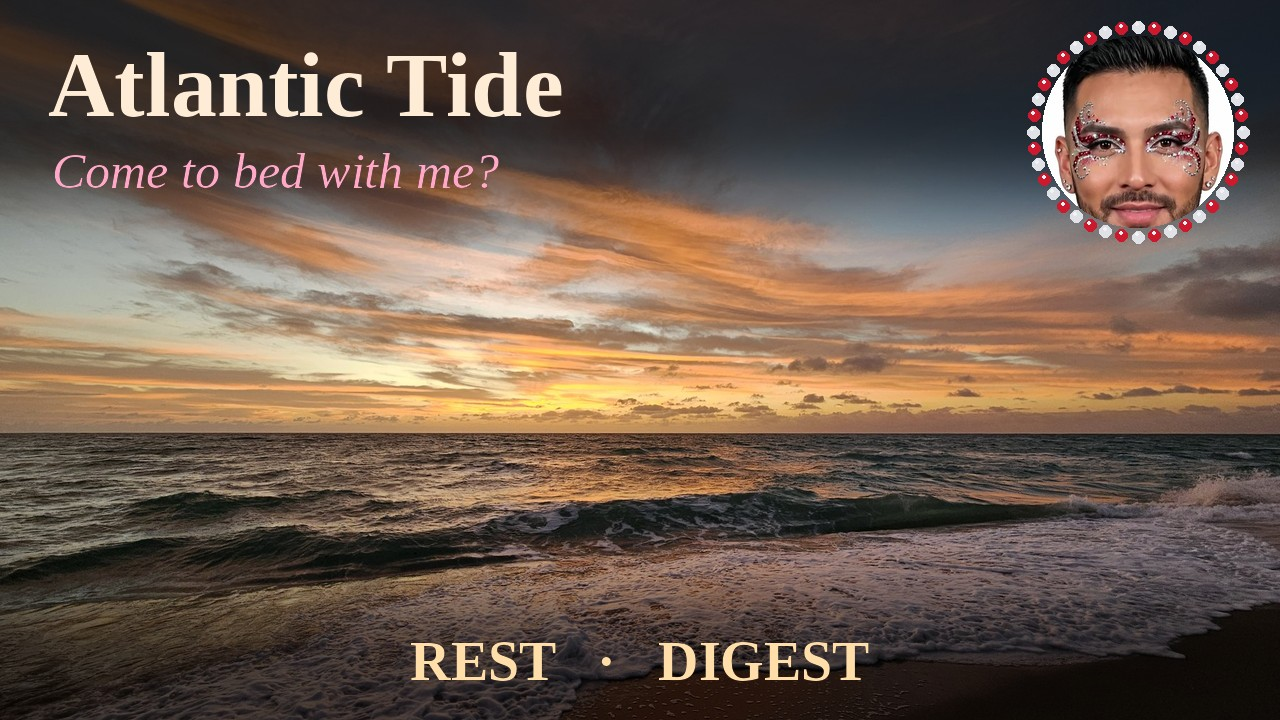
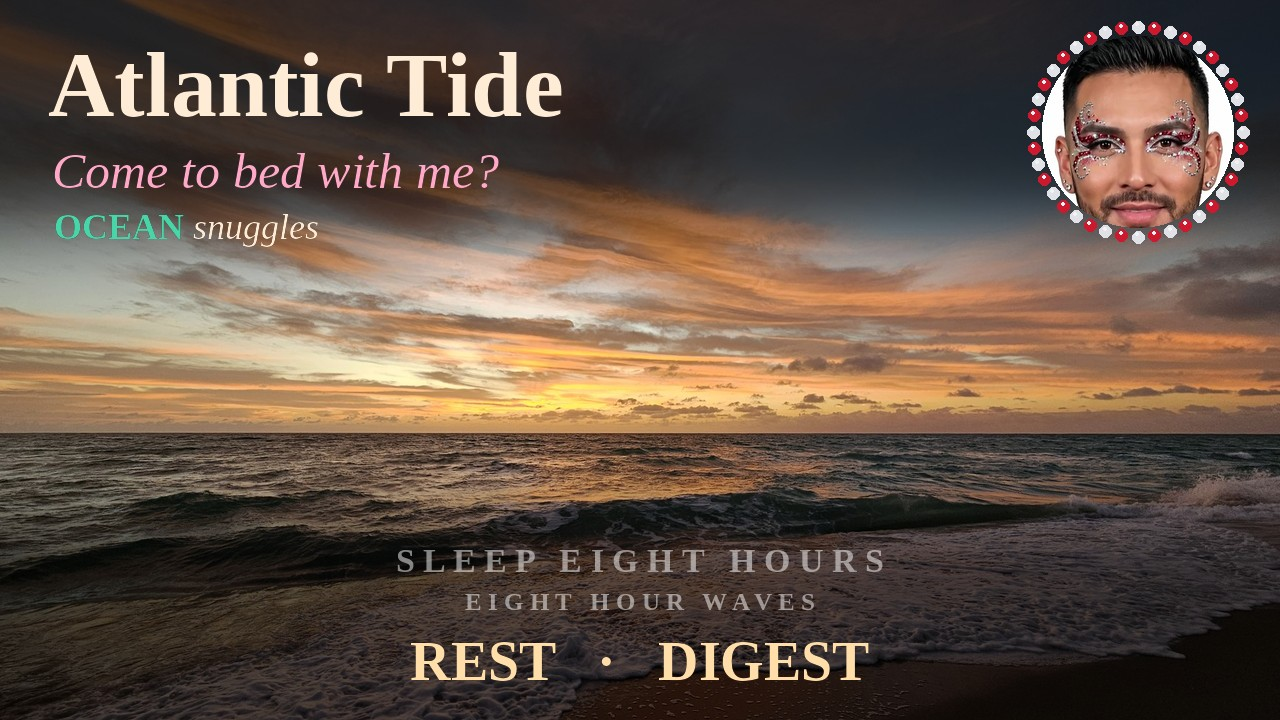
Mateo: Atlantic Tide + Sunset Cliffs posted (records, cover lines, Pacific swell) (#230)
* Mateo: post South Beach Rain (Matthew: vamos)

Claude-Session: https://claude.ai/code/session_018WVMwHw3unxn1QqfaE8vZz

* Mateo: record posted video [skip ci]

* Mateo: Atlantic Tide (8 h ocean waves), Matthew's beach photos day to dusk, black by 20:00; staged, go false

Claude-Session: https://claude.ai/code/session_018WVMwHw3unxn1QqfaE8vZz

* Atlantic Tide: third line OCEAN snuggles (sea green), per Matthew

Claude-Session: https://claude.ai/code/session_018WVMwHw3unxn1QqfaE8vZz

* Atlantic Tide: translucent SLEEP EIGHT HOURS / EIGHT HOUR WAVES above REST · DIGEST, per Matthew

Claude-Session: https://claude.ai/code/session_018WVMwHw3unxn1QqfaE8vZz

* Mateo: post Atlantic Tide (Matthew: boom va a mateo)

Claude-Session: https://claude.ai/code/session_018WVMwHw3unxn1QqfaE8vZz

* Mateo: Sunset Cliffs (8 h Pacific swell), Matthew's San Diego photos sunset to dusk, black by 20:00; staged, go false

Claude-Session: https://claude.ai/code/session_018WVMwHw3unxn1QqfaE8vZz

* Sunset Cliffs: PACIFIC swells with Mateo, per Matthew

Claude-Session: https://claude.ai/code/session_018WVMwHw3unxn1QqfaE8vZz

* Mateo: post Sunset Cliffs (Matthew: Love it. Boom)

Claude-Session: https://claude.ai/code/session_018WVMwHw3unxn1QqfaE8vZz

* Mateo: record Atlantic Tide (ilT93o4YMt0); bot's record push was rejected

Claude-Session: https://claude.ai/code/session_018WVMwHw3unxn1QqfaE8vZz

* Mateo: record posted video [skip ci]

---------

Changed region(s): [[0.0, 0.6722, 1.0, 0.8861], [0.0, 0.2139, 1.0, 0.3667]]

diff --git a/mateo/sunset-cliffs/build.py b/mateo/sunset-cliffs/build.py
@@ -1,0 +1,95 @@
+"""Sunset Cliffs: python mateo/sunset-cliffs/build.py [HOURS] [OUT]
+
+Picture: Matthew's Sunset Cliffs (San Diego) photos, in the order he took them, sunset -> dusk, each slowly zooming
+with crossfades, the cover (title, Mateo upper right, REST · DIGEST) fading out at 9-15 s, while the
+whole picture dims to pure black by 20:00. After that the screen stays black, the kindest dark for eyes.
+Sound: pacific_audio.py (synthesized Pacific groundswell, reef boom, cobble wash), the whole length, no loops.
+Run by .github/workflows/mateo.yml before upload. Needs numpy, scipy, pillow, ffmpeg.
+"""
+import subprocess, sys, tempfile
+from pathlib import Path
+import numpy as np
+from PIL import Image
+
+HERE = Path(__file__).resolve().parent
+HOURS = float(sys.argv[1]) if len(sys.argv) > 1 else 8
+OUT = Path(sys.argv[2]) if len(sys.argv) > 2 else HERE / "video.mp4"
+W, H, FPS = 1280, 720, 24
+INTRO = int(sys.argv[3]) if len(sys.argv) > 3 else 1200  # seconds until fully black
+PHOTOS = ["sun-palms", "blue-palms", "surf-line", "stay-back", "cliff-path", "sun-on-water", "stairs-wave",
+          "cliff-cobbles", "surfers", "cliff-sea", "rock-cove", "foam", "long-cliffs", "open-water", "park-sign",
+          "dusk-palms"]
+XF = 6.0
+SLIDE = INTRO / len(PHOTOS) + XF  # the last photo ends as the screen reaches black
+ENC = ["-c:v", "libx264", "-preset", "slow", "-crf", "30", "-g", "240", "-pix_fmt", "yuv420p", "-r", str(FPS)]
+FF = ["ffmpeg", "-v", "error", "-y"]
+
+
+def smooth(x):
+    x = min(max(x, 0.0), 1.0)
+    return x * x * (3 - 2 * x)
+
+
+def prep(name):
+    im = Image.open(HERE / "assets" / f"{name}.jpg").convert("RGB")
+    s = max(W / im.width, H / im.height) * 1.12
+    return im.resize((int(im.width * s) + 1, int(im.height * s) + 1), Image.LANCZOS)
+
+
+def slide_frame(big, u, k):
+    """Photo at progress u (0..1): slow zoom out 1.12 -> 1.0 with a gentle drift; returns float RGB."""
+    z = 1.12 - 0.12 * u
+    a = big.width / (W * 1.12) * (1.12 / z)
+    sw, sh = W * a, H * a
+    x0 = (0.5 + 0.35 * np.sin(np.pi * u + k)) * (big.width - sw)
+    y0 = (big.height - sh) * 0.5
+    img = big.transform((W, H), Image.AFFINE, (a, 0, x0, 0, a, y0), resample=Image.BICUBIC)
+    return np.asarray(img).astype(np.float32) / 255
+
+
+def frames(overlay):
+    ps = [prep(n) for n in PHOTOS]
+    oa = overlay[..., 3:4].astype(np.float32) / 255
+    oc = overlay[..., :3].astype(np.float32) / 255
+    step = SLIDE - XF
+    for i in range(INTRO * FPS):
+        t = i / FPS
+        j = min(int(t // step), len(ps) - 1); u0 = t - j * step
+        f = slide_frame(ps[j], min(u0 / SLIDE, 1.0), j)
+        if u0 < XF and j > 0:
+            g = slide_frame(ps[j - 1], (u0 + step) / SLIDE, j - 1)
+            f = g * (1 - smooth(u0 / XF)) + f * smooth(u0 / XF)
+        a = 1 - smooth((t - 9) / 6)  # title, Mateo and REST · DIGEST fade together, 9-15 s
+        if a > 0:
+            f = f * (1 - oa * a) + oc * oa * a
+        dim = 1 - smooth((t - 45) / (INTRO - 45))
+        f = f * dim ** 1.6
+        yield (np.clip(f, 0, 1) * 255).astype(np.uint8).tobytes()
+
+
+with tempfile.TemporaryDirectory() as tmp:
+    t = Path(tmp)
+    overlay = np.asarray(Image.open(HERE / "overlay.png").convert("RGBA"))
+    enc = subprocess.Popen(FF + ["-f", "rawvideo", "-pix_fmt", "rgb24", "-s", f"{W}x{H}", "-r", str(FPS), "-i", "-"] + ENC + [t / "intro.mp4"],
+                           stdin=subprocess.PIPE)
+    for k, fr in enumerate(frames(overlay)):
+        enc.stdin.write(fr)
+        if k % (FPS * 60) == 0:
+            print(f"picture {k // FPS}s", flush=True)
+    enc.stdin.close()
+    if enc.wait():
+        sys.exit("intro encode failed")
+    subprocess.run(FF + ["-f", "lavfi", "-i", f"color=c=black:s={W}x{H}:r={FPS}:d=60"] + ENC + [t / "black.mp4"], check=True)
+    total = int(HOURS * 3600)
+    n_black = max(0, (total - INTRO) // 60)
+    (t / "list.txt").write_text("file 'intro.mp4'\n" + "file 'black.mp4'\n" * n_black)
+    subprocess.run(FF + ["-f", "concat", "-safe", "0", "-i", t / "list.txt", "-c", "copy", t / "picture.mp4"], check=True)
+    dur = INTRO + n_black * 60
+    audio = subprocess.Popen([sys.executable, HERE / "pacific_audio.py", str(dur), "3"], stdout=subprocess.PIPE)
+    subprocess.run(FF + ["-f", "s16le", "-ar", "48000", "-ac", "2", "-i", "-", "-i", t / "picture.mp4", "-map", "1:v", "-map", "0:a",
+                         "-c:v", "copy", "-c:a", "aac", "-b:a", "96k", "-movflags", "+faststart", "-shortest", OUT],
+                   stdin=audio.stdout, check=True)
+    audio.stdout.close()
+    if audio.wait():
+        sys.exit("pacific_audio.py failed")
+print(f"built {OUT} ({OUT.stat().st_size / 1e6:.0f} MB, {dur / 3600:.2f} h)")

diff --git a/mateo/sunset-cliffs/pacific_audio.py b/mateo/sunset-cliffs/pacific_audio.py
@@ -1,0 +1,97 @@
+"""Pacific swell at Sunset Cliffs, synthesized (no recordings): python pacific_audio.py SECONDS [FADE_IN] > out.s16le
+
+48 kHz stereo s16le. Long-period groundswell: waves about every 15 s (4 a minute, a very slow breath),
+arriving in sets of a few bigger waves then a lull. Each one is a long swell, a deep low boom as it
+breaks on the reef, and a slow wash back over the cobbles with a faint stone rattle. Deep bed under it.
+No gulls, no sea lions, no thunder. Timing and size drift, so it never loops.
+"""
+import sys
+import numpy as np
+from scipy.signal import butter, sosfilt, sosfilt_zi
+
+SR = 48000
+DUR = int(sys.argv[1]) if len(sys.argv) > 1 else 3600
+FADE_IN = float(sys.argv[2]) if len(sys.argv) > 2 else 20.0
+CH = 60
+rng = np.random.default_rng(1017)
+
+
+def bw(kind, f, order=2):
+    return butter(order, f, btype=kind, fs=SR, output="sos")
+
+
+class F:
+    def __init__(self, sos):
+        self.s, self.z = sos, [sosfilt_zi(sos) * 0, sosfilt_zi(sos) * 0]
+
+    def __call__(self, x, i):
+        y, self.z[i] = sosfilt(self.s, x, zi=self.z[i])
+        return y
+
+
+bed_lp, bed_hp = F(bw("low", 320)), F(bw("high", 25))
+breeze = F(bw("band", [180, 1400]))
+master = F(bw("low", 8500))
+# filter banks for wave noise: low roar, mid break, high fizz
+BANDS = [bw("low", 260), bw("band", [260, 1800]), bw("band", [1600, 6500]), bw("low", 95, 4)]
+RATTLE = bw("band", [1200, 4200])
+
+
+def wave(dur, size):
+    """One wave as stereo noise shaped by three envelopes. dur in seconds."""
+    n = int(dur * SR); t = np.arange(n) / SR
+    peak = dur * rng.uniform(0.32, 0.42)
+    swell = np.where(t < peak, (t / peak) ** 2.2, np.exp(-(t - peak) / (dur * 0.22)))
+    brk = np.exp(-((t - peak - 0.25) / 0.9) ** 2) * 0.8 + np.where(t > peak, np.exp(-(t - peak) / 1.6), 0) * 0.6
+    fizz = np.where(t > peak, (1 - np.exp(-(t - peak) / 0.6)) * np.exp(-(t - peak) / (dur * 0.35)), 0)
+    boom = np.where(t > peak - 0.2, np.exp(-np.maximum(t - peak + 0.2, 0) / 1.4), 0) * np.clip((t - peak + 0.6) / 0.4, 0, 1)
+    env = [swell, brk, fizz, boom]
+    gains = [1.0, 0.45, 0.26, 2.2]
+    out = np.zeros((2, n))
+    pan = rng.uniform(-0.3, 0.3)
+    # cobble rattle on the backwash: sparse soft clicks
+    clicks = (rng.random(n) < 90 / SR) * rng.standard_normal(n)
+    clicks = sosfilt(RATTLE, np.convolve(clicks, np.hanning(48), "same")) * fizz * 0.5
+    for i in range(2):
+        acc = np.zeros(n)
+        for b, e, g in zip(BANDS, env, gains):
+            acc += sosfilt(b, rng.standard_normal(n)) * e * g
+        acc += np.roll(clicks, i * 37)
+        out[i] = acc * size * (1 + (pan if i else -pan))
+    # fade edges so overlapping waves join smoothly
+    r = min(n // 10, SR)
+    out[:, :r] *= np.linspace(0, 1, r); out[:, -r:] *= np.linspace(1, 0, r)
+    return out
+
+
+buf = np.zeros((2, SR * 60))   # carries wave tails across chunk edges
+next_wave = 1.5
+set_left, set_size = 4, 1.0
+out = sys.stdout.buffer
+for c0 in range(0, DUR, CH):
+    n = SR * min(CH, DUR - c0)
+    t = (c0 * SR + np.arange(n)) / SR
+    mix = np.zeros((2, n + SR * 60))
+    mix[:, :buf.shape[1]] += buf
+    while next_wave < c0 + CH:
+        if set_left <= 0:                      # lull between sets, then a new set of 3-5
+            next_wave += rng.uniform(8, 18)
+            set_left = int(rng.integers(3, 6)); set_size = float(np.clip(rng.lognormal(0, 0.2), 0.8, 1.3))
+        size = set_size * float(np.clip(rng.lognormal(0, 0.18), 0.75, 1.25)) * 0.55
+        dur = rng.uniform(15, 20)
+        w = wave(dur, size)
+        s = int((next_wave - c0) * SR)
+        mix[:, s:s + w.shape[1]] += w
+        next_wave += rng.normal(15.0, 1.4); set_left -= 1
+    for i in range(2):
+        mix[i, :n] += bed_hp(bed_lp(rng.standard_normal(n), i), i) * 1.5
+        b = breeze(rng.standard_normal(n), i)
+        mix[i, :n] += b * 0.05 * (0.6 + 0.4 * np.sin(2 * np.pi * t / 47 + i))
+    buf = mix[:, n:].copy()
+    y = mix[:, :n]
+    for i in range(2):
+        y[i] = master(y[i], i)
+    y *= np.clip(t / FADE_IN, 0, 1) * np.clip((DUR - t) / 60, 0, 1) * 0.39
+    y = np.tanh(y * 1.1) / 1.1
+    out.write((np.clip(y.T, -1, 1) * 32000).astype("<i2").tobytes())
+    print(f"pacific {c0 + CH}s", file=sys.stderr, flush=True)

diff --git a/mateo/sunset-cliffs/make_cover.py b/mateo/sunset-cliffs/make_cover.py
@@ -1,0 +1,51 @@
+"""One-time: draws overlay.png (video intro, fades out) and thumb.jpg. Committed, so the runner needs no fonts."""
+import math
+from PIL import Image, ImageDraw, ImageFont, ImageFilter, ImageOps
+W, H = 1280, 720
+S = '/usr/share/fonts/truetype/liberation/LiberationSerif-Bold.ttf'
+SI = '/usr/share/fonts/truetype/liberation/LiberationSerif-Italic.ttf'
+SA = '/usr/share/fonts/truetype/dejavu/DejaVuSans.ttf'
+MATEO = Image.open('/mnt/project-files/mid-mateo/test-scene/stills/mateo-still.jpg').convert('RGB')
+
+
+def medallion(d, base, cx, cy, r):
+    face = MATEO.crop((330, 40, 750, 460)).resize((2 * r, 2 * r), Image.LANCZOS)
+    mask = Image.new('L', (2 * r, 2 * r), 0); ImageDraw.Draw(mask).ellipse([0, 0, 2 * r - 1, 2 * r - 1], fill=255)
+    n, R, s = 40, r + 9, max(3, r // 14)
+    for k in range(n):
+        a = 2 * math.pi * k / n; x = cx + R * math.cos(a); y = cy + R * math.sin(a)
+        d.ellipse([x - s, y - s, x + s, y + s], fill=(205, 25, 45, 255) if k % 2 else (225, 225, 232, 255))
+        d.ellipse([x - s * .4, y - s * .7, x + s * .1, y - s * .2], fill=(255, 255, 255, 230))
+    base.paste(face, (cx - r, cy - r), mask)
+
+
+def layer(title_size, sub_size, rd_size, r):
+    ov = Image.new('RGBA', (W, H), (0, 0, 0, 0))
+    sh = Image.new('L', (W, H), 0); sd = ImageDraw.Draw(sh)
+    sd.rectangle([0, 0, W, 225], fill=175); sd.rectangle([0, H - 200, W, H], fill=150)
+    ov.putalpha(sh.filter(ImageFilter.GaussianBlur(35)))
+    d = ImageDraw.Draw(ov)
+    d.text((48, 34), "Sunset Cliffs", font=ImageFont.truetype(S, title_size), fill=(255, 236, 214, 255))
+    d.text((52, 40 + title_size * 1.12), "Come to bed with me?", font=ImageFont.truetype(SI, sub_size), fill=(255, 168, 200, 255))
+    y3 = 40 + title_size * 1.12 + sub_size * 1.25
+    f3 = ImageFont.truetype(SI, int(sub_size * 0.72)); fo = ImageFont.truetype(S, int(sub_size * 0.72))
+    d.text((54, y3), "PACIFIC", font=fo, fill=(72, 214, 168, 255))
+    d.text((54 + d.textlength("PACIFIC ", font=fo), y3), "swells with Mateo", font=f3, fill=(255, 236, 214, 255))
+    medallion(d, ov, W - r - 46, r + 36, r)
+    f = ImageFont.truetype(S, rd_size); t = "REST   ·   DIGEST"
+    yr = H - rd_size - 34
+    d.text(((W - d.textlength(t, font=f)) / 2, yr), t, font=f, fill=(255, 222, 170, 255))
+    # translucent lines above REST · DIGEST (50%), composited so the photo shows through
+    tl = Image.new('RGBA', (W, H), (0, 0, 0, 0)); td = ImageDraw.Draw(tl)
+    f1 = ImageFont.truetype(S, int(rd_size * 0.62)); f2 = ImageFont.truetype(S, int(rd_size * 0.46))
+    l1, l2 = "S L E E P   E I G H T   H O U R S", "E I G H T   H O U R   S W E L L S"
+    y2 = yr - int(rd_size * 0.46) - 18; y1 = y2 - int(rd_size * 0.62) - 12
+    td.text(((W - td.textlength(l1, font=f1)) / 2, y1), l1, font=f1, fill=(255, 255, 255, 128))
+    td.text(((W - td.textlength(l2, font=f2)) / 2, y2), l2, font=f2, fill=(255, 255, 255, 128))
+    ov.alpha_composite(tl)
+    return ov
+
+layer(70, 40, 48, 72).save('overlay.png')
+crop = ImageOps.fit(ImageOps.exif_transpose(Image.open('assets/sun-palms.jpg')).convert('RGB'), (W, H), Image.LANCZOS, centering=(0.5, 0.6))
+th = Image.alpha_composite(crop.convert('RGBA'), layer(92, 50, 56, 96)).convert('RGB')
+th.save('thumb.jpg', quality=90)

diff --git a/mateo/ocean-night/make_cover.py b/mateo/ocean-night/make_cover.py
@@ -22,14 +22,27 @@ def medallion(d, base, cx, cy, r):
 def layer(title_size, sub_size, rd_size, r):
     ov = Image.new('RGBA', (W, H), (0, 0, 0, 0))
     sh = Image.new('L', (W, H), 0); sd = ImageDraw.Draw(sh)
-    sd.rectangle([0, 0, W, 190], fill=175); sd.rectangle([0, H - 120, W, H], fill=150)
+    sd.rectangle([0, 0, W, 225], fill=175); sd.rectangle([0, H - 200, W, H], fill=150)
     ov.putalpha(sh.filter(ImageFilter.GaussianBlur(35)))
     d = ImageDraw.Draw(ov)
     d.text((48, 34), "Atlantic Tide", font=ImageFont.truetype(S, title_size), fill=(255, 236, 214, 255))
     d.text((52, 40 + title_size * 1.12), "Come to bed with me?", font=ImageFont.truetype(SI, sub_size), fill=(255, 168, 200, 255))
+    y3 = 40 + title_size * 1.12 + sub_size * 1.25
+    f3 = ImageFont.truetype(SI, int(sub_size * 0.72)); fo = ImageFont.truetype(S, int(sub_size * 0.72))
+    d.text((54, y3), "OCEAN", font=fo, fill=(72, 214, 168, 255))
+    d.text((54 + d.textlength("OCEAN ", font=fo), y3), "snuggles", font=f3, fill=(255, 236, 214, 255))
     medallion(d, ov, W - r - 46, r + 36, r)
     f = ImageFont.truetype(S, rd_size); t = "REST   ·   DIGEST"
-    d.text(((W - d.textlength(t, font=f)) / 2, H - rd_size - 34), t, font=f, fill=(255, 222, 170, 255))
+    yr = H - rd_size - 34
+    d.text(((W - d.textlength(t, font=f)) / 2, yr), t, font=f, fill=(255, 222, 170, 255))
+    # translucent lines above REST · DIGEST (50%), composited so the photo shows through
+    tl = Image.new('RGBA', (W, H), (0, 0, 0, 0)); td = ImageDraw.Draw(tl)
+    f1 = ImageFont.truetype(S, int(rd_size * 0.62)); f2 = ImageFont.truetype(S, int(rd_size * 0.46))
+    l1, l2 = "S L E E P   E I G H T   H O U R S", "E I G H T   H O U R   W A V E S"
+    y2 = yr - int(rd_size * 0.46) - 18; y1 = y2 - int(rd_size * 0.62) - 12
+    td.text(((W - td.textlength(l1, font=f1)) / 2, y1), l1, font=f1, fill=(255, 255, 255, 128))
+    td.text(((W - td.textlength(l2, font=f2)) / 2, y2), l2, font=f2, fill=(255, 255, 255, 128))
+    ov.alpha_composite(tl)
     return ov
 
 layer(70, 40, 48, 72).save('overlay.png')
